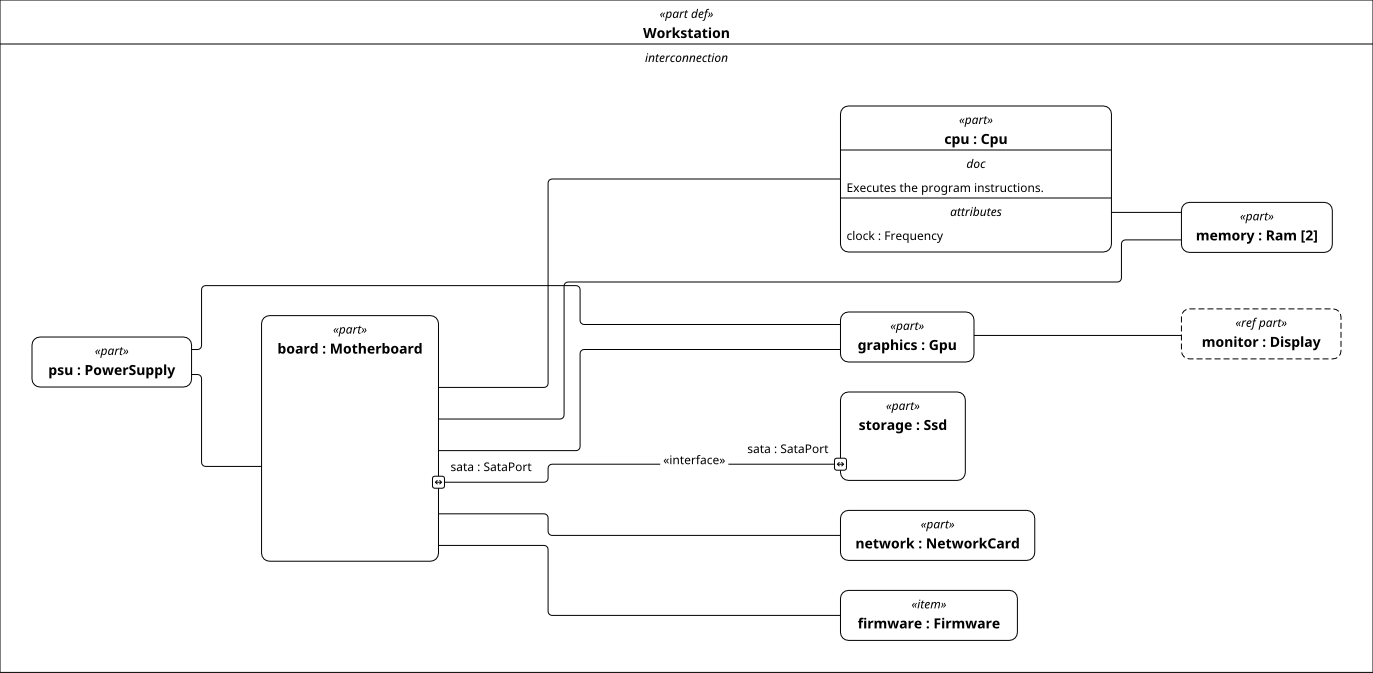
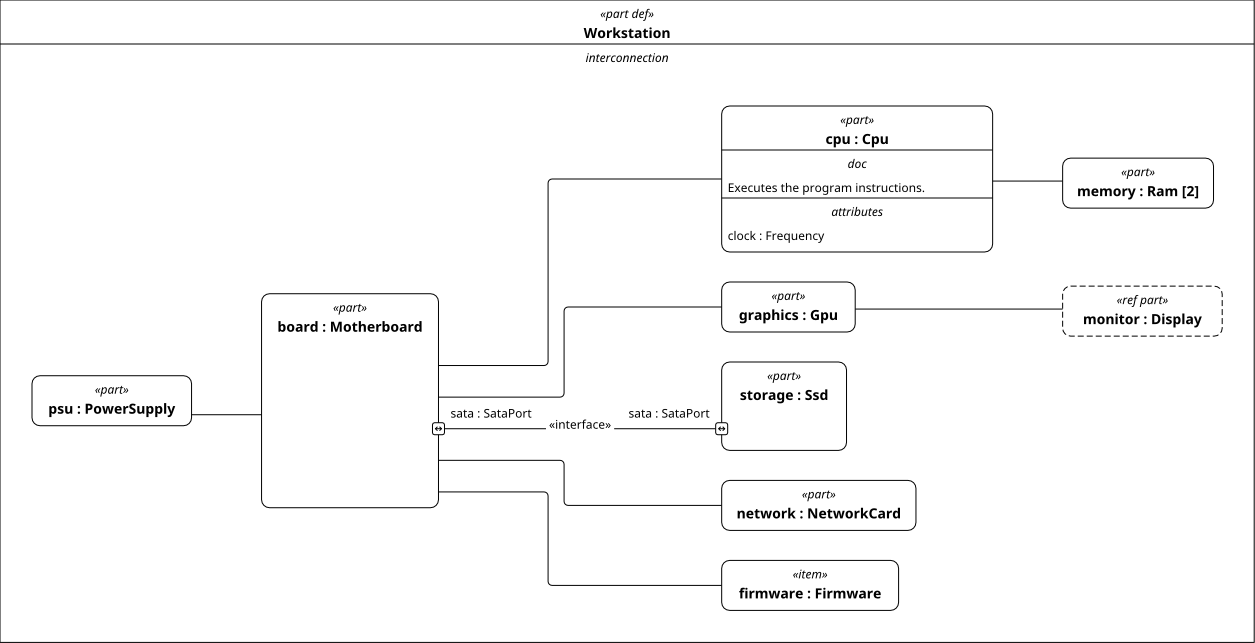
Remove two crossing connectors from the workstation gallery model
The connections c2 (board to memory) and c7 (psu to graphics) crossed several
other plain connectors in the Workstation interconnection image. Without them
no connectors cross and the canvas is 120 px narrower (fill 15.5 % to 17.3 %).

diff --git a/docs/gallery/README.md b/docs/gallery/README.md
@@ -514,7 +514,7 @@ slightly with the straighter edge routing of rendering engine 0.3.0-beta.4 (the 
 are narrower; the Heater canvas is 257 px wide instead of 215 px).
 
 Two Interconnection images also fall short of B5 since the port notation was added: the Workstation
-image fills 15.5 % (1373 × 672 px; 19.0 % on `main`) and the Motor Rig image 18.3 % (1411 × 424 px;
+image fills 17.3 % (1255 × 643 px; 19.0 % on `main`) and the Motor Rig image 18.3 % (1411 × 424 px;
 46.0 % on `main`). The cause is again the layered layout engine: it reserves, between two columns of
 boxes, the width of every outside port label and end label along the connector run (the label of
 the port at each end plus the role names), so a connector between labeled ports needs a corridor
@@ -549,8 +549,12 @@ The interconnection models were extended to exercise the notation of the Interco
   `inout port sata`; the `cpu` usage has a `doc` and a `clock` attribute; `memory` is a
   two-element part; added a `ref part monitor`, an `item firmware`, and the connections `c9`
   (graphics to monitor) and `c10` (board to firmware); the former `c4` (board to storage) is now
-  an anonymous `interface` between the two `sata` ports. The `CoreLinkInterconnectionView` is
-  unchanged.
+  an anonymous `interface` between the two `sata` ports. The connections `c2` (board to memory)
+  and `c7` (psu to graphics) of the earlier model were removed: they were plain connectors
+  between parts without declared ports, so every one of them left the board or the power supply
+  as a bare line, and these two crossed several others without a label to tell them apart.
+  The memory is now wired through the cpu (`c8`), and the diagram has no crossing connectors
+  (and is 120 px narrower). The `CoreLinkInterconnectionView` is unchanged.
 - `08-nested-interconnection.sysml`: added the port definitions `PowerPort`, `SataPort`,
   `MainsPort`, and `VideoPort`; the power supply, motherboard, and storage declare ports; the
   `Computer` frame declares `mains` and `video`; the connections now join declared ports.
